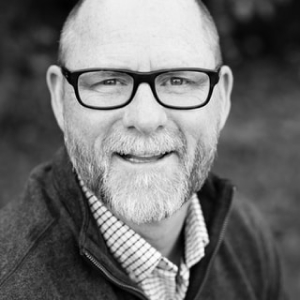
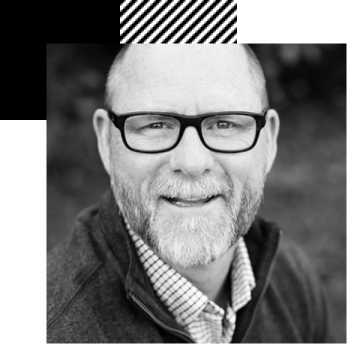
Fix background for featured speaker images as given in design

diff --git a/style.css b/style.css
@@ -317,6 +317,7 @@ img {
   display: -ms-flexbox;
   display: flex;
   margin: 10px 0;
+  padding: 10px;
 }
 
 .featured-speakers .speaker-box .speaker-image {
@@ -327,6 +328,7 @@ img {
 .featured-speakers .speaker-box .speaker-info {
   text-align: left;
   padding: 0 1.25em;
+  margin: 1.5em 0;
 }
 
 .featured-speakers .speaker-box .speaker-info h2 {

diff --git a/style.scss b/style.scss
@@ -293,6 +293,7 @@ img {
   .speaker-box {
     display: flex;
     margin: 10px 0;
+    padding: 10px;
 
     .speaker-image {
       width: 180px;
@@ -302,6 +303,7 @@ img {
     .speaker-info {
       text-align: left;
       padding: 0 1.25em;
+      margin: 1.5em 0;
 
       h2 {
         text-align: left;
